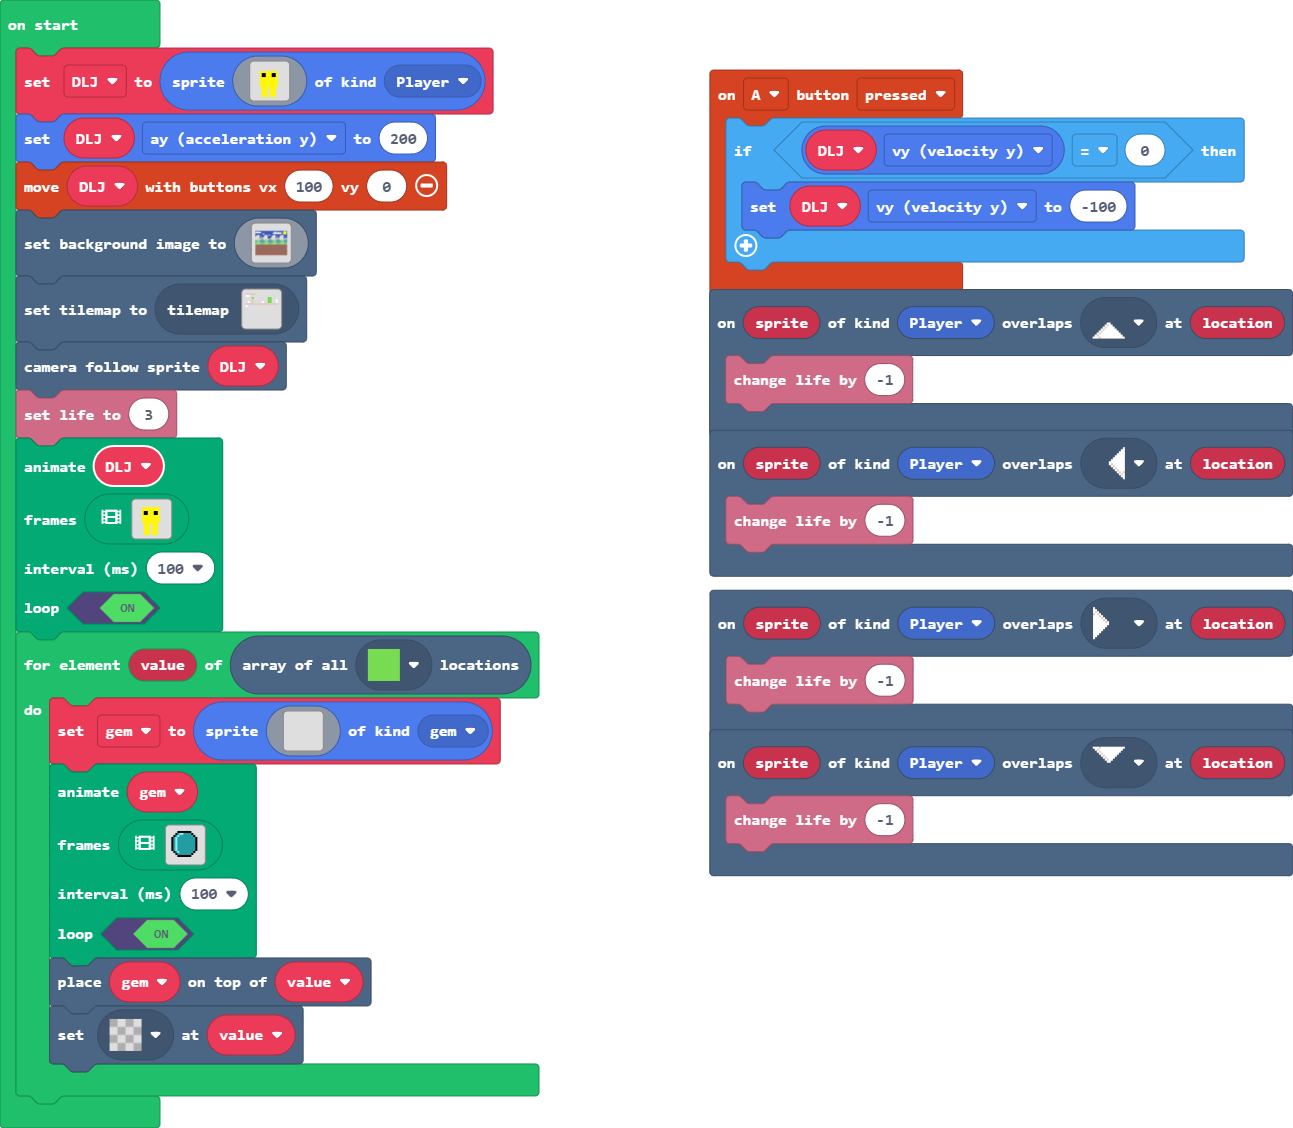
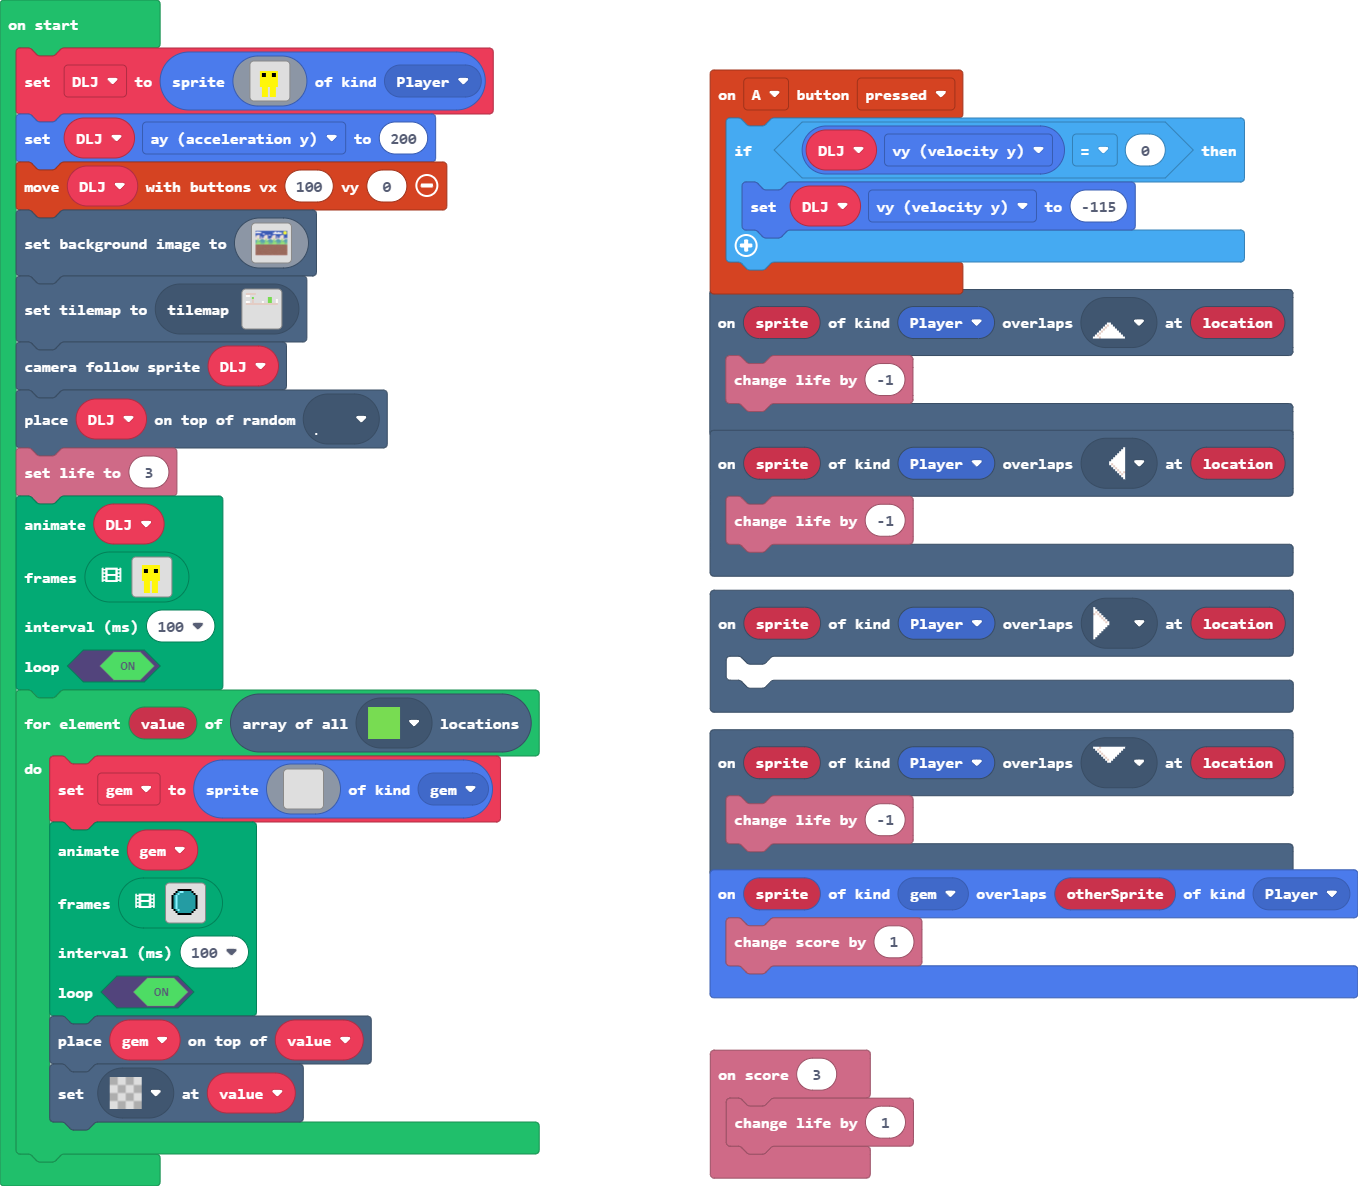
Update main.blocks, main.ts, tilemap.g.jres, tilemap.g.ts

diff --git a/tilemap.g.ts b/tilemap.g.ts
@@ -37,7 +37,7 @@ namespace myTiles {
 . . . . . . . . . . . . . . . . 
 `, [myTiles.transparency16], TileScale.Sixteen);
             case "level2":
-            case "level2":return tiles.createTilemap(hex`1000100001010101010000000000000000000000050500000000000000000000000000000000000600000000000000060600000000000001000000000000000606000004000300010000000003000006060000040101010101010101010101010101010102000000000000000000000000000000000000000000000000000000000000000000000000000000000000000000000000000000000000000000000000000000000000000000000000000000000000000000000000000000000000000000000000000000000000000000000000000000000000000000000000000000000000000000000000000000000000000000000000000000000000000000000000000000`, img`
+            case "level2":return tiles.createTilemap(hex`1000100001010101010000000000000000000000050500000000000000000000000000000000000600000000000000060600000000000001000000000000000606000004020300010000000003000006060000040101010101010101010101010101010100000000000000000000000000000000000000000000000000000000000000000000000000000000000000000000000000000000000000000000000000000000000000000000000000000000000000000000000000000000000000000000000000000000000000000000000000000000000000000000000000000000000000000000000000000000000000000000000000000000000000000000000000000000`, img`
 2 2 2 2 2 . . . . . . . . . . . 
 . . . . . . . . . . . . . . . . 
 . . . . . . . . . . . . . . . . 

diff --git a/main.ts b/main.ts
@@ -9,14 +9,20 @@ scene.onOverlapTile(SpriteKind.Player, assets.tile`myTile1`, function (sprite, l
 })
 controller.A.onEvent(ControllerButtonEvent.Pressed, function () {
     if (DLJ.vy == 0) {
-        DLJ.vy = -100
+        DLJ.vy = -115
     }
 })
 scene.onOverlapTile(SpriteKind.Player, assets.tile`myTile3`, function (sprite, location) {
-    info.changeLifeBy(-1)
+	
 })
 scene.onOverlapTile(SpriteKind.Player, assets.tile`myTile2`, function (sprite, location) {
     info.changeLifeBy(-1)
+})
+info.onScore(3, function () {
+    info.changeLifeBy(1)
+})
+sprites.onOverlap(SpriteKind.gem, SpriteKind.Player, function (sprite, otherSprite) {
+    info.changeScoreBy(1)
 })
 let gem: Sprite = null
 let DLJ: Sprite = null
@@ -164,6 +170,7 @@ scene.setBackgroundImage(img`
     `)
 tiles.setCurrentTilemap(tilemap`level2`)
 scene.cameraFollowSprite(DLJ)
+tiles.placeOnRandomTile(DLJ, assets.tile`myTile`)
 info.setLife(3)
 animation.runImageAnimation(
 DLJ,
